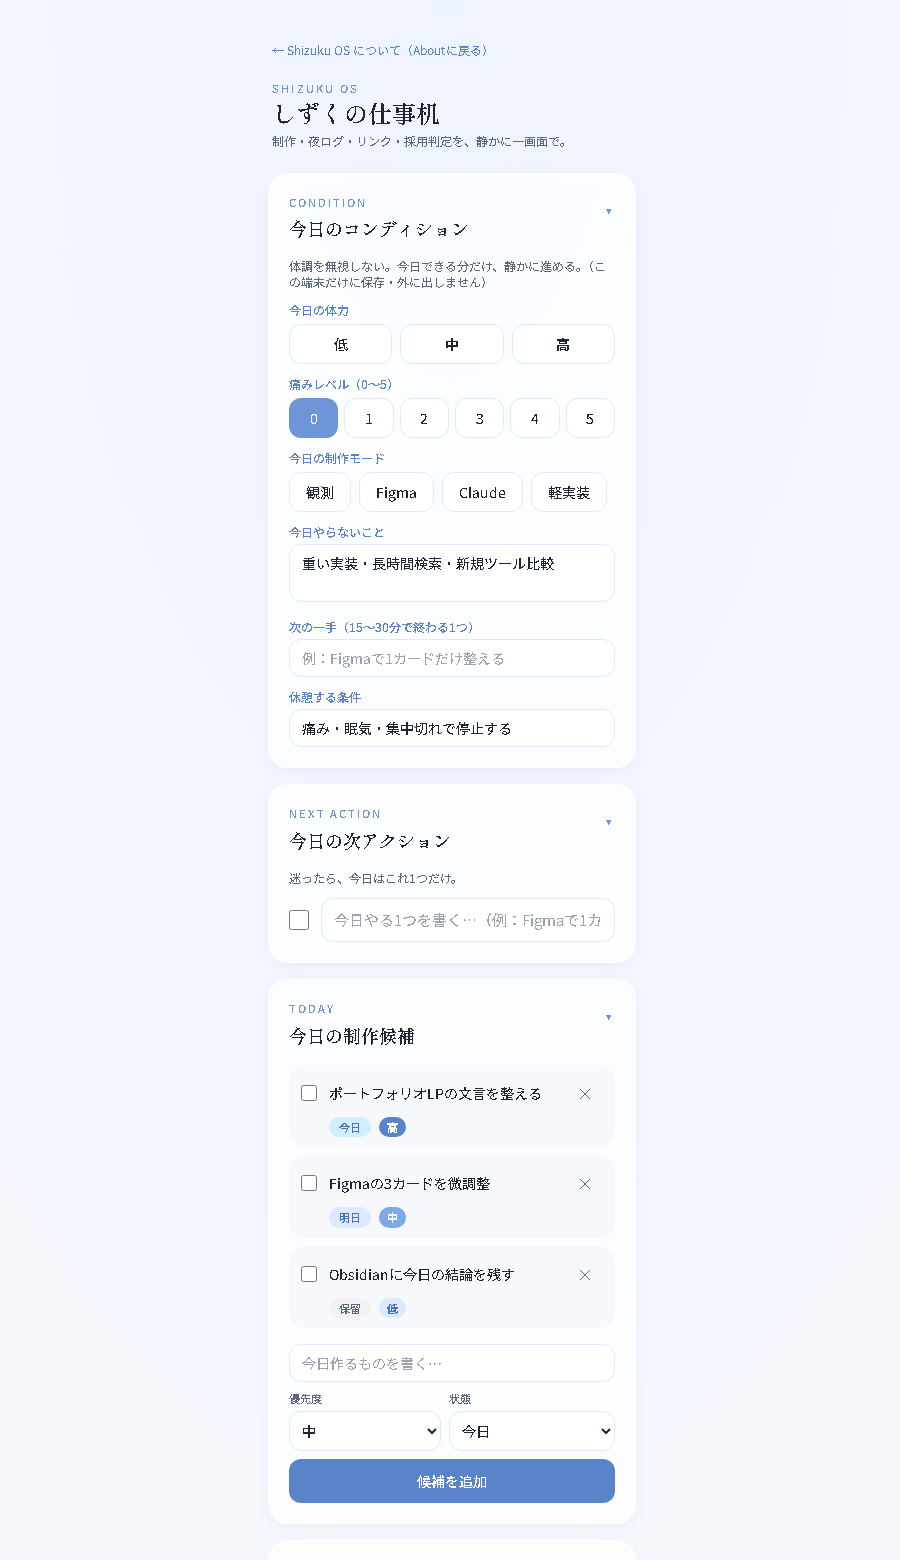
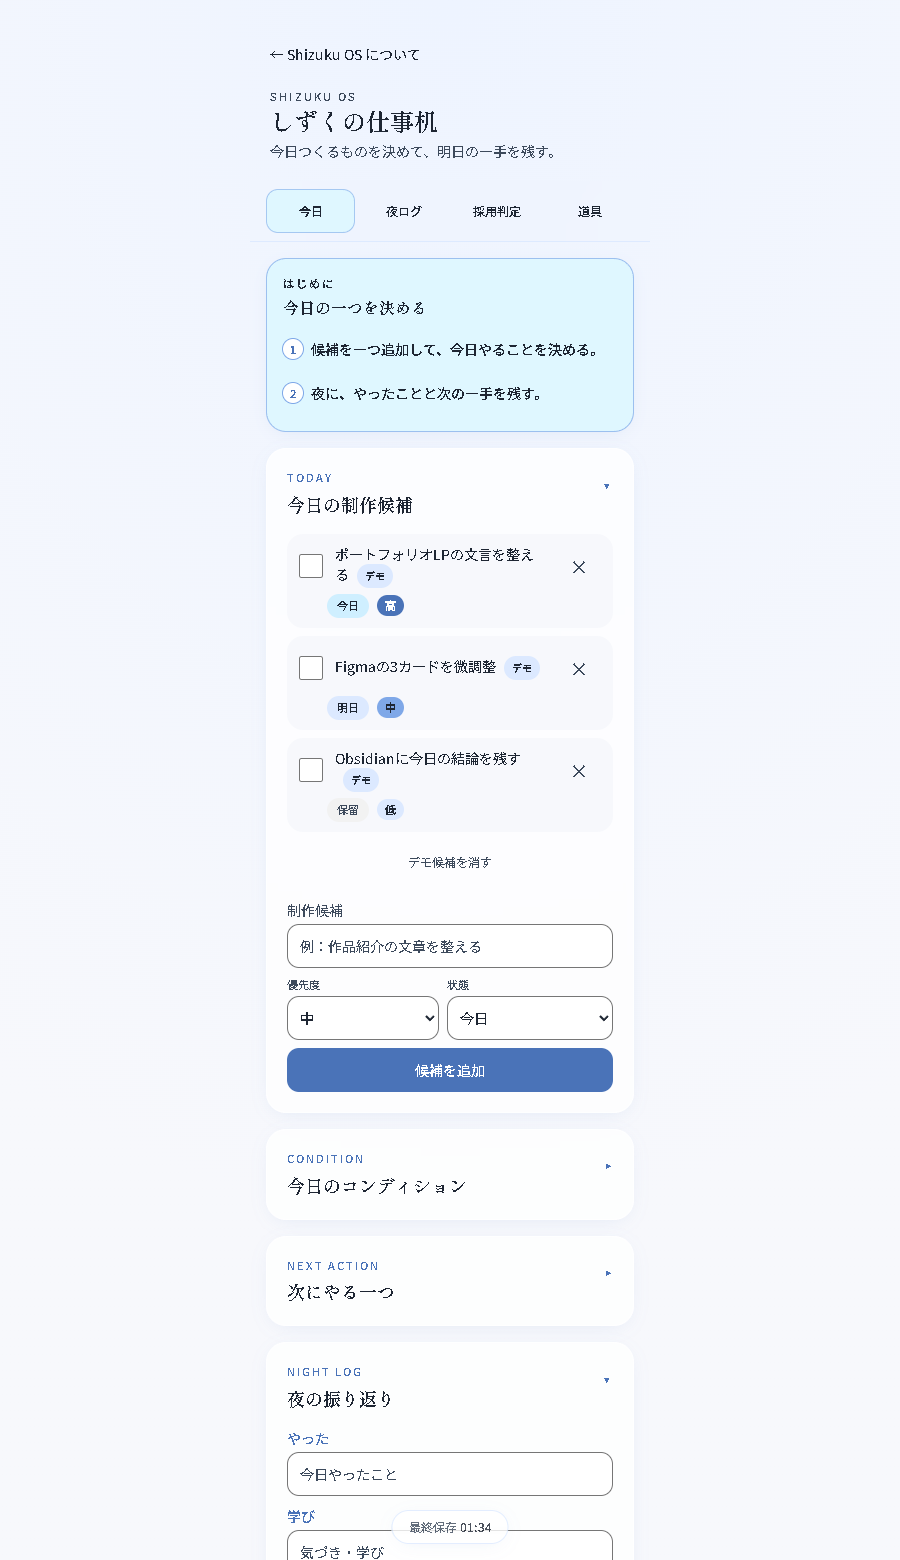
docs: READMEのスクリーンショット5枚を現在の公開画面で撮り直す
公開サイトを保存データが空の初期表示で撮影（2026-11-12）。
ナビ・「はじめに」・Quality Gateの現行文言・文字色の修正が反映された状態。
READMEの注記の日付と撮り方を更新。

diff --git a/README.md b/README.md
@@ -13,7 +13,7 @@
 ![Shizuku OS — Dashboard（カード一覧）](docs/images/screenshot-dashboard-desktop.png)
 ![Shizuku OS — Dashboard（モバイル表示）](docs/images/screenshot-dashboard-mobile.png)
 
-> スクリーンショットは 2026-08-31 に差し替え済み。デスクトップ幅（1440px）とモバイル幅（390px）で表示し、ファーストビューと主要カードが読める範囲を切り出しています（実装は全12カード）。
+> スクリーンショットは 2026-11-12 に撮り直し済み（公開サイトを、保存データが空の初期表示で撮影）。デスクトップ幅（1440px）とモバイル幅（390px）で表示し、ファーストビューと主要カードが読める範囲を切り出しています（実装は全12カード）。
 ![Shizuku OS — Quality Gate](docs/images/screenshot-quality-gate.png)
 
 ---
